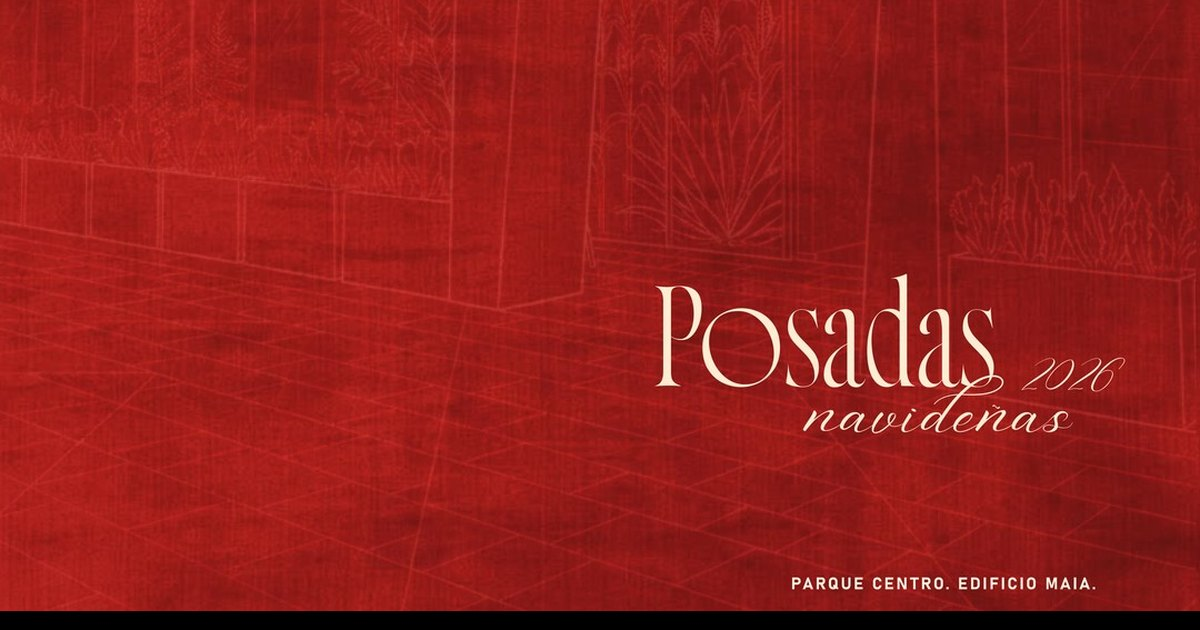
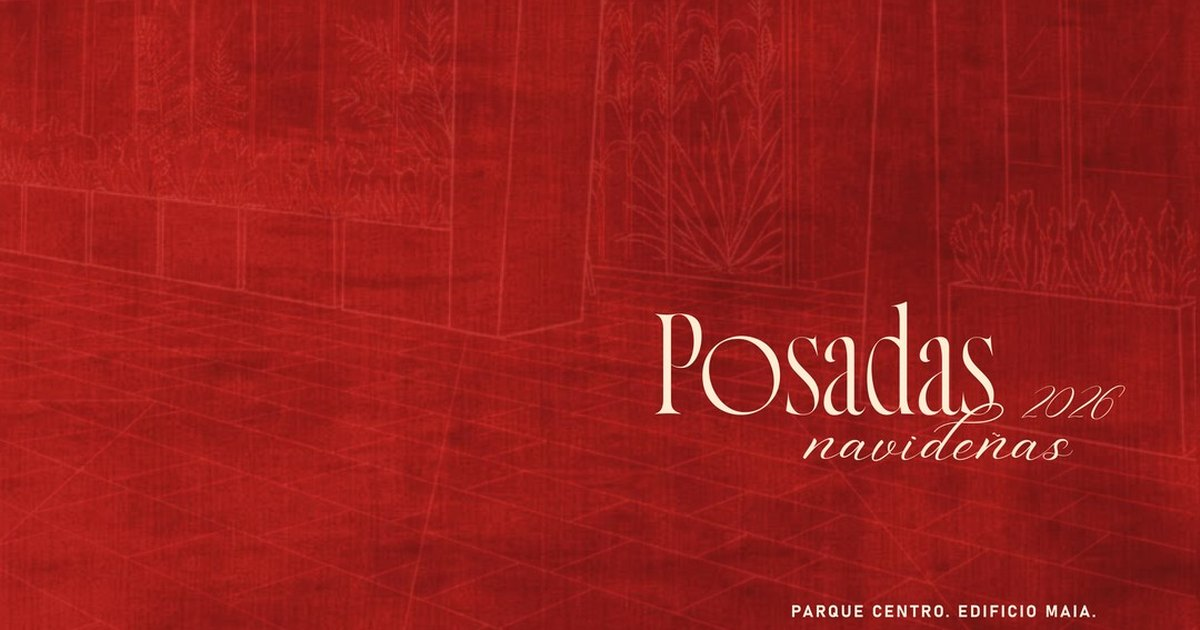
Página de posadas: vista previa sin franja negra y sin títulos repetidos

diff --git a/public/menu/posadas.html b/public/menu/posadas.html
@@ -17,7 +17,6 @@
   * { box-sizing: border-box; }
   body { margin: 0; background: var(--papel); color: var(--tinta); font: 16px/1.5 system-ui, -apple-system, sans-serif; -webkit-font-smoothing: antialiased; }
   main { max-width: 640px; margin: 0 auto; }
-  h2 { margin: 0; padding: 28px 16px 12px; font-size: 1.25rem; text-align: center; letter-spacing: .02em; }
   img { display: block; width: 100%; height: auto; }
   .reserva { display: block; margin: 24px 16px 40px; padding: 16px; border-radius: 12px; background: var(--rojo); color: #fff; text-align: center; font-weight: 600; text-decoration: none; }
 </style>
@@ -25,11 +24,9 @@
 <body>
 <main>
   <img src="posadas-og.jpg" width="1200" height="630" alt="Posadas navideñas 2026 en Epazote">
-  <h2>Desayunos</h2>
   <img src="posadas-desayunos-2.jpg" width="1080" height="1620" alt="Desayunos, paquete 1: $289 por persona">
   <img src="posadas-desayunos-3.jpg" width="1080" height="1130" alt="Desayunos, paquete 2: $235 por persona" loading="lazy">
   <img src="posadas-desayunos-4.jpg" width="1080" height="2195" alt="Desayunos, paquete 3: $290 por persona" loading="lazy">
-  <h2>Comidas y cenas</h2>
   <img src="posadas-comidas-y-cenas-2.jpg" width="1080" height="1510" alt="Comidas y cenas, paquete 1: $650 por persona" loading="lazy">
   <img src="posadas-comidas-y-cenas-3.jpg" width="1080" height="1110" alt="Comidas y cenas, paquete 2: $690 por persona" loading="lazy">
   <img src="posadas-comidas-y-cenas-4.jpg" width="1080" height="2265" alt="Comidas y cenas, paquete 3: $750 por persona" loading="lazy">
